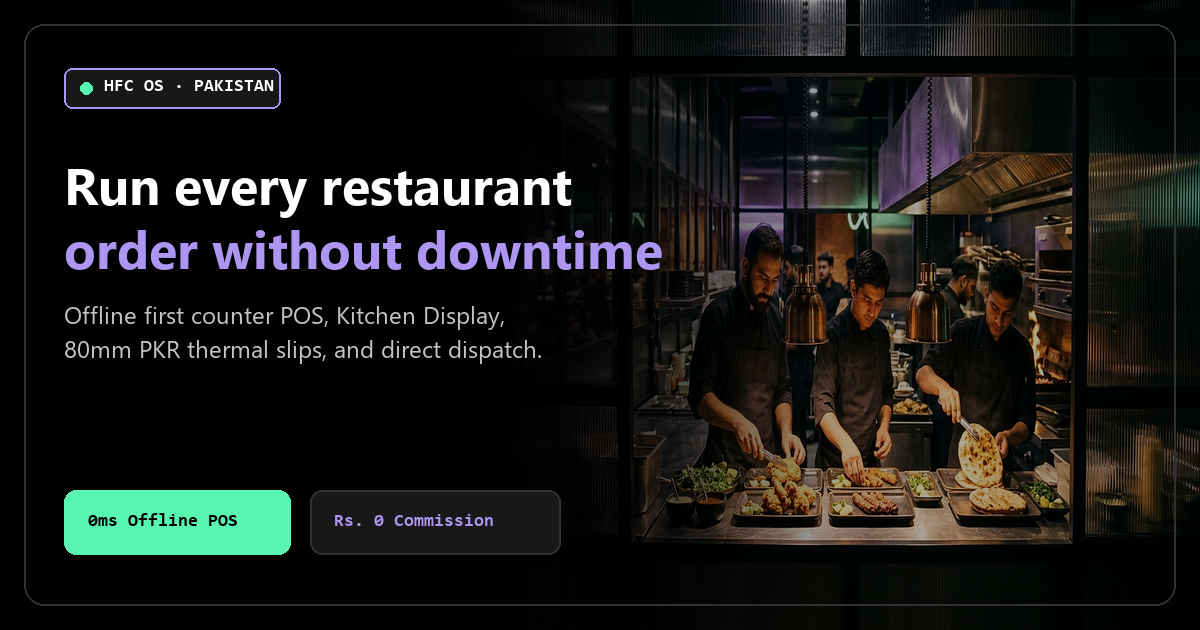
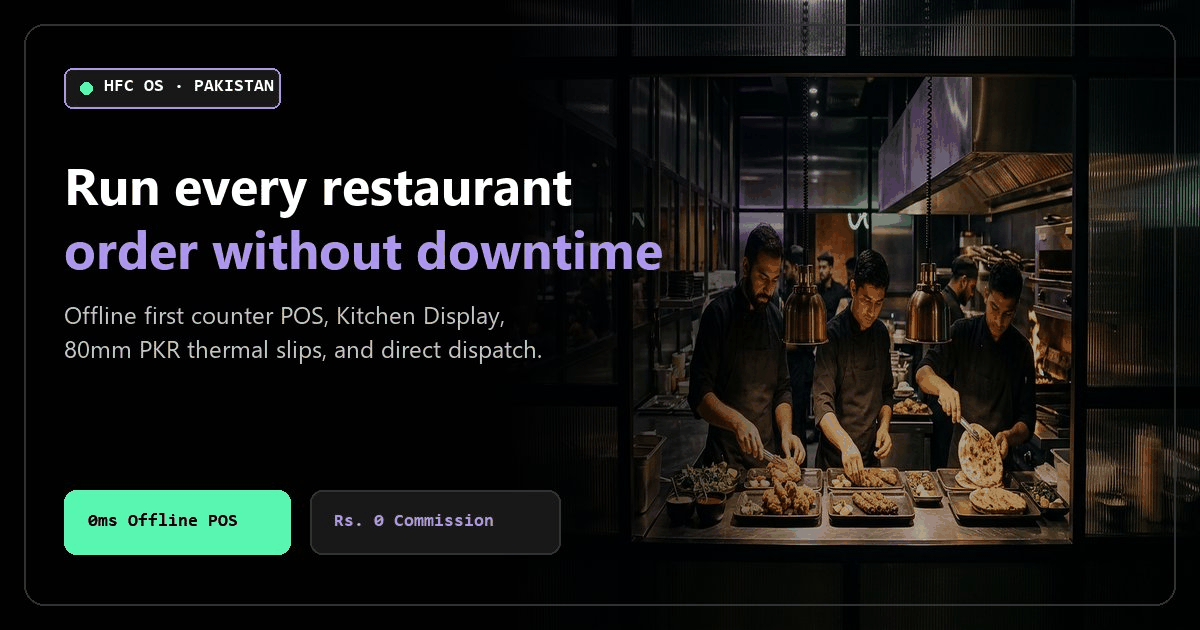
fix: correct openGraph metadataBase domain to parchi-os.vercel.app and optimize og-image size for WhatsApp preview

diff --git a/src/app/layout.tsx b/src/app/layout.tsx
@@ -10,7 +10,7 @@ export const viewport: Viewport = {
 };
 
 export const metadata: Metadata = {
-  metadataBase: new URL('https://parchios.vercel.app'),
+  metadataBase: new URL('https://parchi-os.vercel.app'),
   title: {
     default: 'ParchiOS — 5-Second Digital Parchi & Restaurant POS System Pakistan',
     template: '%s | ParchiOS Pakistan',
@@ -32,14 +32,14 @@ export const metadata: Metadata = {
     'HFC ParchiOS',
     'restaurant cash management Pakistan',
   ],
-  authors: [{ name: 'ParchiOS Pakistan', url: 'https://parchios.vercel.app' }],
+  authors: [{ name: 'ParchiOS Pakistan', url: 'https://parchi-os.vercel.app' }],
   creator: 'ParchiOS Pakistan',
   publisher: 'ParchiOS Pakistan',
   formatDetection: {
     telephone: false,
   },
   alternates: {
-    canonical: 'https://parchios.vercel.app',
+    canonical: 'https://parchi-os.vercel.app',
   },
   manifest: '/manifest.json',
   icons: {
@@ -56,13 +56,21 @@ export const metadata: Metadata = {
     title: 'ParchiOS — 5-Second Digital Parchi & Restaurant POS System Pakistan',
     description:
       'Replace messy register books with ParchiOS. 5-second counter screen, instant KOT slips, and real-time sales on your phone with zero monthly commission. 45,000 PKR one-time setup.',
-    url: 'https://parchios.vercel.app',
+    url: 'https://parchi-os.vercel.app',
     siteName: 'ParchiOS Pakistan',
     images: [
+      {
+        url: '/og-image.jpg',
+        width: 1200,
+        height: 630,
+        type: 'image/jpeg',
+        alt: 'ParchiOS — 5-Second Digital Parchi & Restaurant POS System Pakistan',
+      },
       {
         url: '/og-image.png',
         width: 1200,
         height: 630,
+        type: 'image/png',
         alt: 'ParchiOS — 5-Second Digital Parchi & Restaurant POS System Pakistan',
       },
     ],
@@ -74,7 +82,7 @@ export const metadata: Metadata = {
     title: 'ParchiOS — 5-Second Digital Parchi & Restaurant POS System Pakistan',
     description:
       '5-second counter screen, instant KOT slips, and real-time sales on your phone with zero monthly commission. 45,000 PKR one-time setup.',
-    images: ['/og-image.png'],
+    images: ['/og-image.jpg'],
   },
   robots: {
     index: true,
